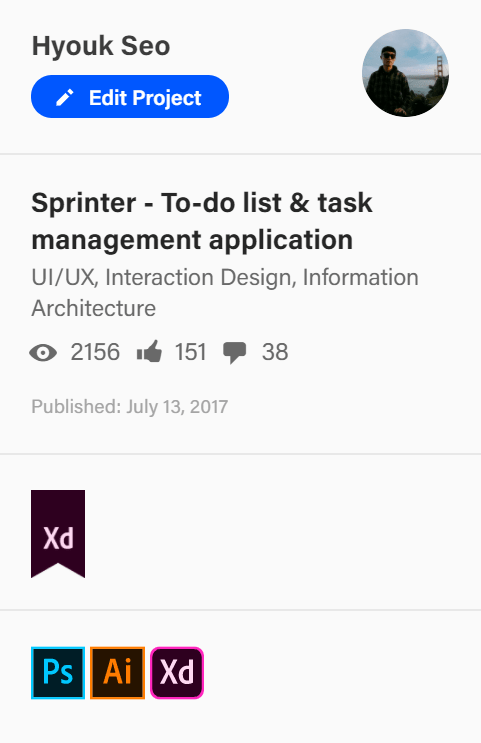
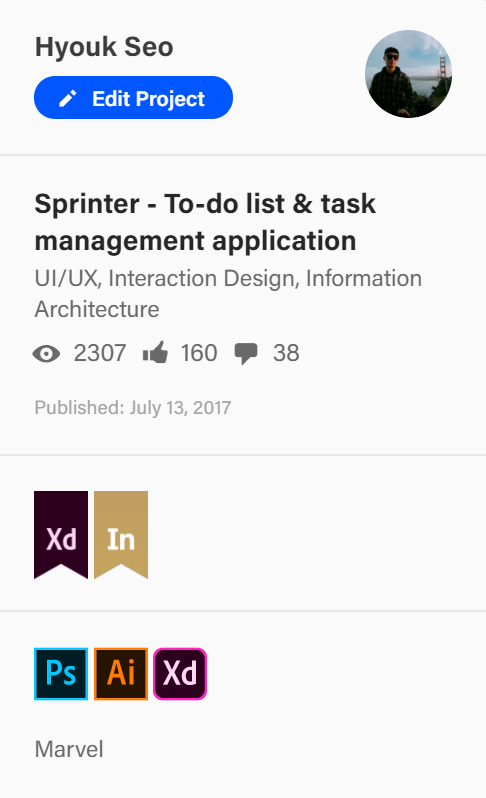
topBtn hide on top

diff --git a/public/js/index.js b/public/js/index.js
@@ -378,7 +378,7 @@
                 nextLink = document.createElement('a');
                 nextLink.className = 'prevNext prevNextText';
                 nextLink.href = "https://spemer.com/" + arrayName[i + 1].href + ".html";
-                nextLink.title = arrayName[i + 1].name;
+                nextLink.title = arrayName[i + 1].title;
 
                 nextBold = document.createElement('b');
                 nextText = document.createTextNode(arrayName[i + 1].name);
@@ -441,7 +441,7 @@
                 nextLink = document.createElement('a');
                 nextLink.className = 'prevNext prevNextText';
                 nextLink.href = "https://spemer.com/" + arrayName[i - 1].href + ".html";
-                nextLink.title = arrayName[i - 1].name;
+                nextLink.title = arrayName[i - 1].title;
 
                 nextBold = document.createElement('b');
                 nextText = document.createTextNode(arrayName[i - 1].name);
@@ -643,7 +643,7 @@
         let topBtnNode = document.createElement("a");
         topBtnNode.setAttribute('data-scroll', '');
         topBtnNode.href = "body";
-        topBtnNode.title = "Top";
+        topBtnNode.title = "Back to Top";
         topBtnNode.className = "prevNextTop";
 
         topBtnNode.setAttribute('onmouseover', 'topUp()');
@@ -776,14 +776,26 @@
 
             let fixedTopBtnIcon = document.createElement("i");
             fixedTopBtnIcon.className = 'fa fa-chevron-circle-up topBtn';
-            fixedTopBtnIcon.title = 'Top';
+            fixedTopBtnIcon.title = 'Back to Top';
             fixedTopBtnIcon.setAttribute('aria-hidden', 'true');
 
             fixedTopBtn.appendChild(fixedTopBtnLink);
             fixedTopBtnLink.appendChild(fixedTopBtnIcon);
         }
-    }   
+    }
+    // topBtn hidden top
+    window.onscroll = function() {scrollFunction()};
+
+    function scrollFunction() {
+        if (document.body.scrollTop > 320 || document.documentElement.scrollTop > 320)
+        {
+            document.getElementById("topBtnFixed").style.opacity = 1;
+        } else {
+            document.getElementById("topBtnFixed").style.opacity = 0;
+        }
+    }
 })();
+
 
 
 //

diff --git a/public/css/stylesheet.css b/public/css/stylesheet.css
@@ -280,14 +280,14 @@ h4{
 		width:50%;
 		float:left;
 		display:block;
-		margin:0 auto}
-	.aboutIntroBox_20 img{margin:24px 0}}
+		margin:0 auto}}
+
+@media screen and (max-width:768px){.aboutIntroBox_20 img{margin:24px 0}}
 @media screen and (max-width:420px){
 	.aboutIntroBox_20{
 		width:100%;
 		margin:0 auto;
-		display:block;
-		padding:20px 0}
+		display:block;}
 	.aboutIntroBox_80{padding-right:5%}}
 
 .aboutTxtBox p a{
@@ -594,12 +594,13 @@ footer p{float:left;font-size:16px}
 	.articleImg35-small img{width:60%}}
 
 .topBtn{
+	right:12px;
+	bottom:12px;
 	color:#babac0;
 	position:fixed;
-	bottom:12px;
-	right:12px;
 	font-size:26px}
 .topBtn:hover{color:#656c7a}
+#topBtnFixed{opacity:0}
 .fa-chevron-circle-up{padding:12px}
 
 .code{
@@ -742,13 +743,13 @@ font-size:13px !important;line-height:18px !important}
 
 .whiteBgImg,.gist-file{border:1px solid #e5e5e5 !important;border-radius:4px !important}
 
-.prevNextTop,.prevNextTop:hover,.prevNextTop2,.prevNextTop2:hover,a:hover,
+.prevNextTop,.prevNextTop:hover,.prevNextTop2,.prevNextTop2:hover,a:hover,#topBtnFixed,
 .prevNext,.prevNext:hover,#headerLogo h1,#headerLogo h1:hover,.topBtn:hover,.topBtn,
 .headerNav,.headerNav:hover,#snsIcon i,#snsIcon i:hover,#siteMap a,#siteMap a:hover,
 .artImgBoxEach img:hover,#headerNav li{
 	-webkit-transition:all .25s ease;
-	-o-transition:all .25s ease;
 	-moz-transition:all .25s ease;
+	-o-transition:all .25s ease;
 	transition:all .25s ease !important}
 
 figcaption{

diff --git a/public/portfolio/todo-task-list-manage-application-sprinter.html b/public/portfolio/todo-task-list-manage-application-sprinter.html
@@ -81,7 +81,7 @@
 			<figure class="articleImg35-small articleFig articleImgSize">
 				<a href="https://www.behance.net/gallery/54735807/Sprinter-To-do-list-task-management-application" target="_blank" title="Behance(new tab)">
 					<img src="../img/works/sprinter/xdfeatured.png" alt="Adobe XD featured" title="Adobe XD featured" style="max-width:350px;" class="whiteBgImg" />
-					<figcaption>Featured from Adobe XD(August 22, 2017)</figcaption>
+					<figcaption>Featured from Adobe XD and Interaction gallery</figcaption>
 				</a>
 			</figure>
 			<br>
@@ -103,7 +103,7 @@
 
 				<strong>Date :</strong> July 13, 2017 (10 Weeks)<br>
 
-				<strong>Tools :</strong> Adobe Photoshop CC 2017, Adobe Illustrator CC 2017, Adobe Experience Design CC 2017, Zeplin, Trello<br>
+				<strong>Tools :</strong> Adobe Photoshop CC 2017, Adobe Illustrator CC 2017, Adobe Experience Design CC 2017, Zeplin, Trello, MarvelApp<br>
 
 				<strong>Designer :</strong> Hyouk Seo (Spemer)<br>
 

diff --git a/public/portfolio/instagram-tracker-application-igtracker-design.html b/public/portfolio/instagram-tracker-application-igtracker-design.html
@@ -325,7 +325,6 @@
 				</p>
 			</div>
 
-				<br>
 			<h4>_b. Audience/Posts Screen</h4>
 
 				<p>
